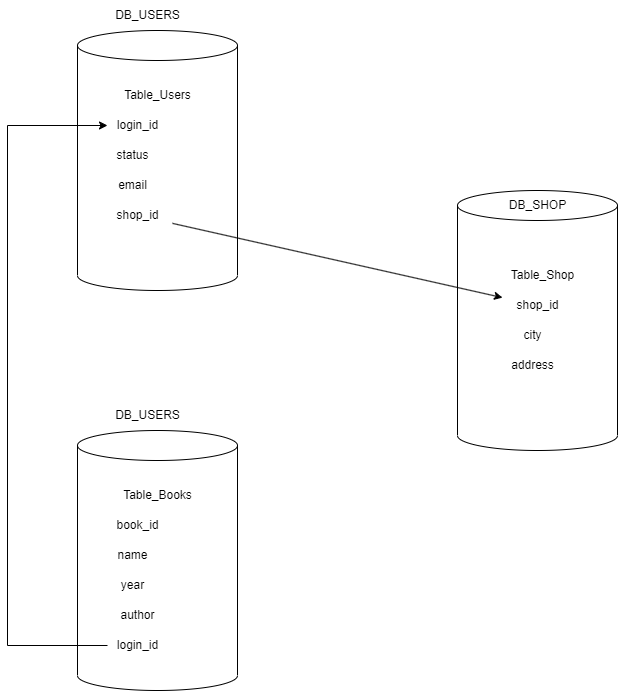
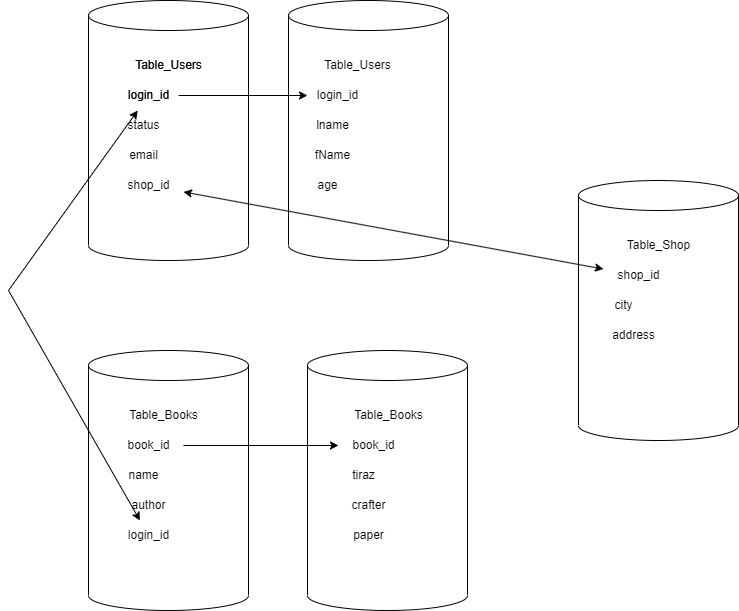
fix

diff --git a/12_7.md b/12_7.md
@@ -28,7 +28,9 @@ Distributed Replicated Block Device - это сетевой RAID-1 на блоч
 
 
 ### Задание 2
-Первая диаграмма это вертикальный шардинг. Группу таблиц разделили на отдельный сервера, оставив связь через ID чтобы можно было собрать данные целиком при необходимости
+Первая диаграмма это вертикальный шардинг. Таблицы с пользователями и книгами разделил по столбцам на разные серверы. НАиболее важные столбы разместил на одном сервере, а побочные с доп информацией на второй. Для этой диаграммы добавил 
+поля в некотоырй таблицы для наглядности.(в горизонтальный шардинг их уже не стал дублировать). Оставил также стрелочки для связей между таблицами
+
 Вторая диаграмма это горизонтальный шардинг. Таблицы разделили на раздные сервера по диапазону идентификаторов(как партиционирование, но на разные машины).
 
 ![Диаграмма](https://github.com/kravtsovpeter/netology-hw/blob/main/img/12_7_1.png)
